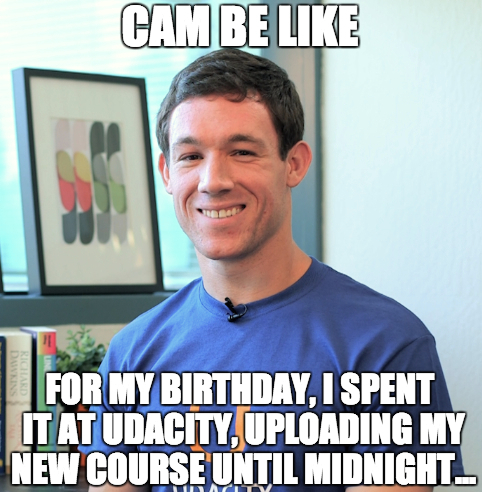
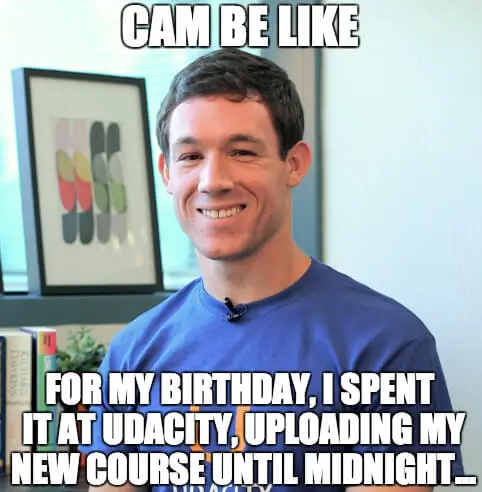
Signed-off-by: Ismayil Mahalov <ismayil.mahalov@sharpgaming.com>

diff --git a/index.html b/index.html
@@ -39,25 +39,25 @@
       <div class="content">
         <ul>
           <li>
-            <img style="width: 223px;  height: 339px;" src="img/2048_small.webp">
+            <img style="width: 223px;  height: 339px;" src="img/2048.png">
             <a href="project-2048.html">Build Your Own 2048!</a>
             <p>I made my own version of 2048. How cool is that!?</p>
           </li>
 
           <li>
-            <img style="width: 200px;  height: 204px;" src="img/cam_be_like_small.webp">
+            <img style="width: 200px;  height: 204px;" src="img/cam_be_like.webp">
             <a href="project-webperf.html">Website Performance Optimization</a>
             <p>Hey... this class looks familiar.</p>
           </li>
 
           <li>
-            <img style="width: 300px;  height: 152px"   src="img/mobilewebdev_small.webp">
+            <img style="width: 300px;  height: 152px"   src="img/mobilewebdev.webp">
             <a href="project-mobile.html">Mobile Web Development</a>
             <p>Making mobile apps isn't so hard after all.</p>
           </li>
 
           <li>
-            <img style="width: 200px;  height: 150;" src="views/images/pizzeria_small.webp">
+            <img style="width: 200px;  height: 150;" src="views/images/pizzeria.webp">
             <a href="views/pizza.html">Cam's Pizzeria</a>
             <p>Who wants a performant pizza?</p>
           </li>

diff --git a/css/style.css b/css/style.css
@@ -44,8 +44,6 @@ li p { font-size: 0.9em; font-style: italic; } */
     margin-bottom: 2em;       /* Space between items */
 }
 li img { 
-    width: 100px; 
-    height: auto; 
     margin-right: 1em;        /* Space between image and text */
 }
 li p { 
